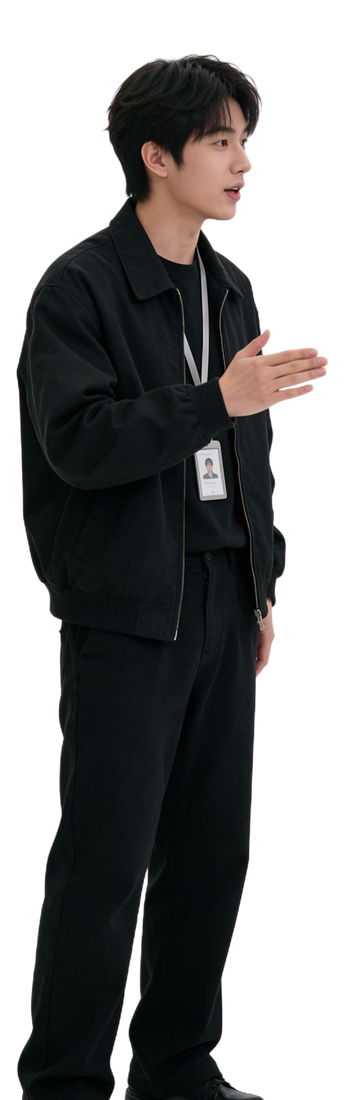
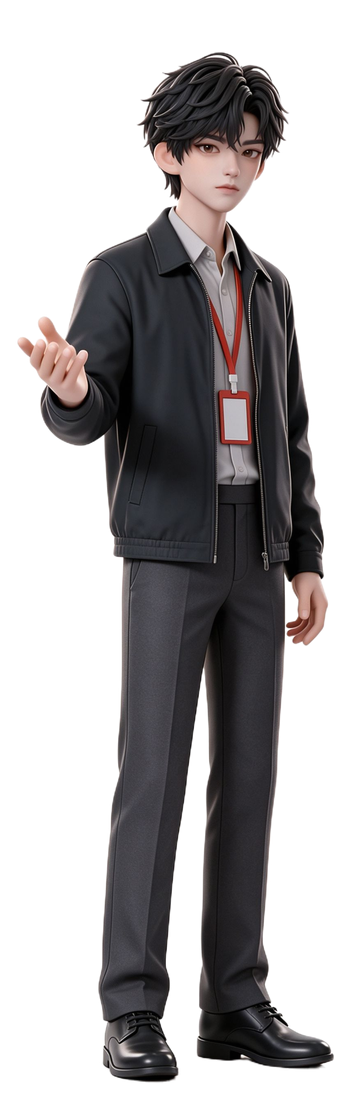
scene: 交谈站与活动站人物回归 SVG 3D 插画形象

diff --git a/index.html b/index.html
@@ -319,12 +319,12 @@ section[id]{scroll-margin-top:68px}
 .walker .look.lk-read .p2{opacity:0;animation:readB 1.5s steps(1,end) infinite}
 @keyframes readA{0%,49.9%{opacity:1}50%,100%{opacity:0}}
 @keyframes readB{0%,49.9%{opacity:0}50%,100%{opacity:1}}
-.iso-track .bubble{position:absolute;left:32.8%;bottom:41%;display:none;z-index:4}
+.iso-track .bubble{position:absolute;left:33.2%;bottom:41%;display:none;z-index:4}
 .iso-track .bubble i{display:inline-block;width:5px;height:5px;border-radius:50%;background:rgba(174,59,44,.55);margin-right:3px;animation:talkdot 1.2s ease-in-out infinite}
 .iso-track .bubble i:nth-child(2){animation-delay:.18s}
 .iso-track .bubble i:nth-child(3){animation-delay:.36s}
 @keyframes talkdot{0%,100%{transform:translateY(0);opacity:.45}50%{transform:translateY(-3px);opacity:1}}
-.iso-track .friend{position:absolute;bottom:0;left:32.5%;height:44.7%;width:auto;max-width:none;transform:translateX(-50%);z-index:3;display:none}
+.iso-track .friend{position:absolute;bottom:0;left:33.9%;height:44.7%;width:auto;max-width:none;transform:translateX(-50%);z-index:3;display:none}
 .iso-shadow{position:absolute;bottom:0;left:0;width:4%;height:3.4%;transform:translateX(-50%);border-radius:50%;background:rgba(25,26,28,.13);z-index:2}
 @media (max-width:719px){
   .iso{max-width:100%;margin:2px 0 0}
